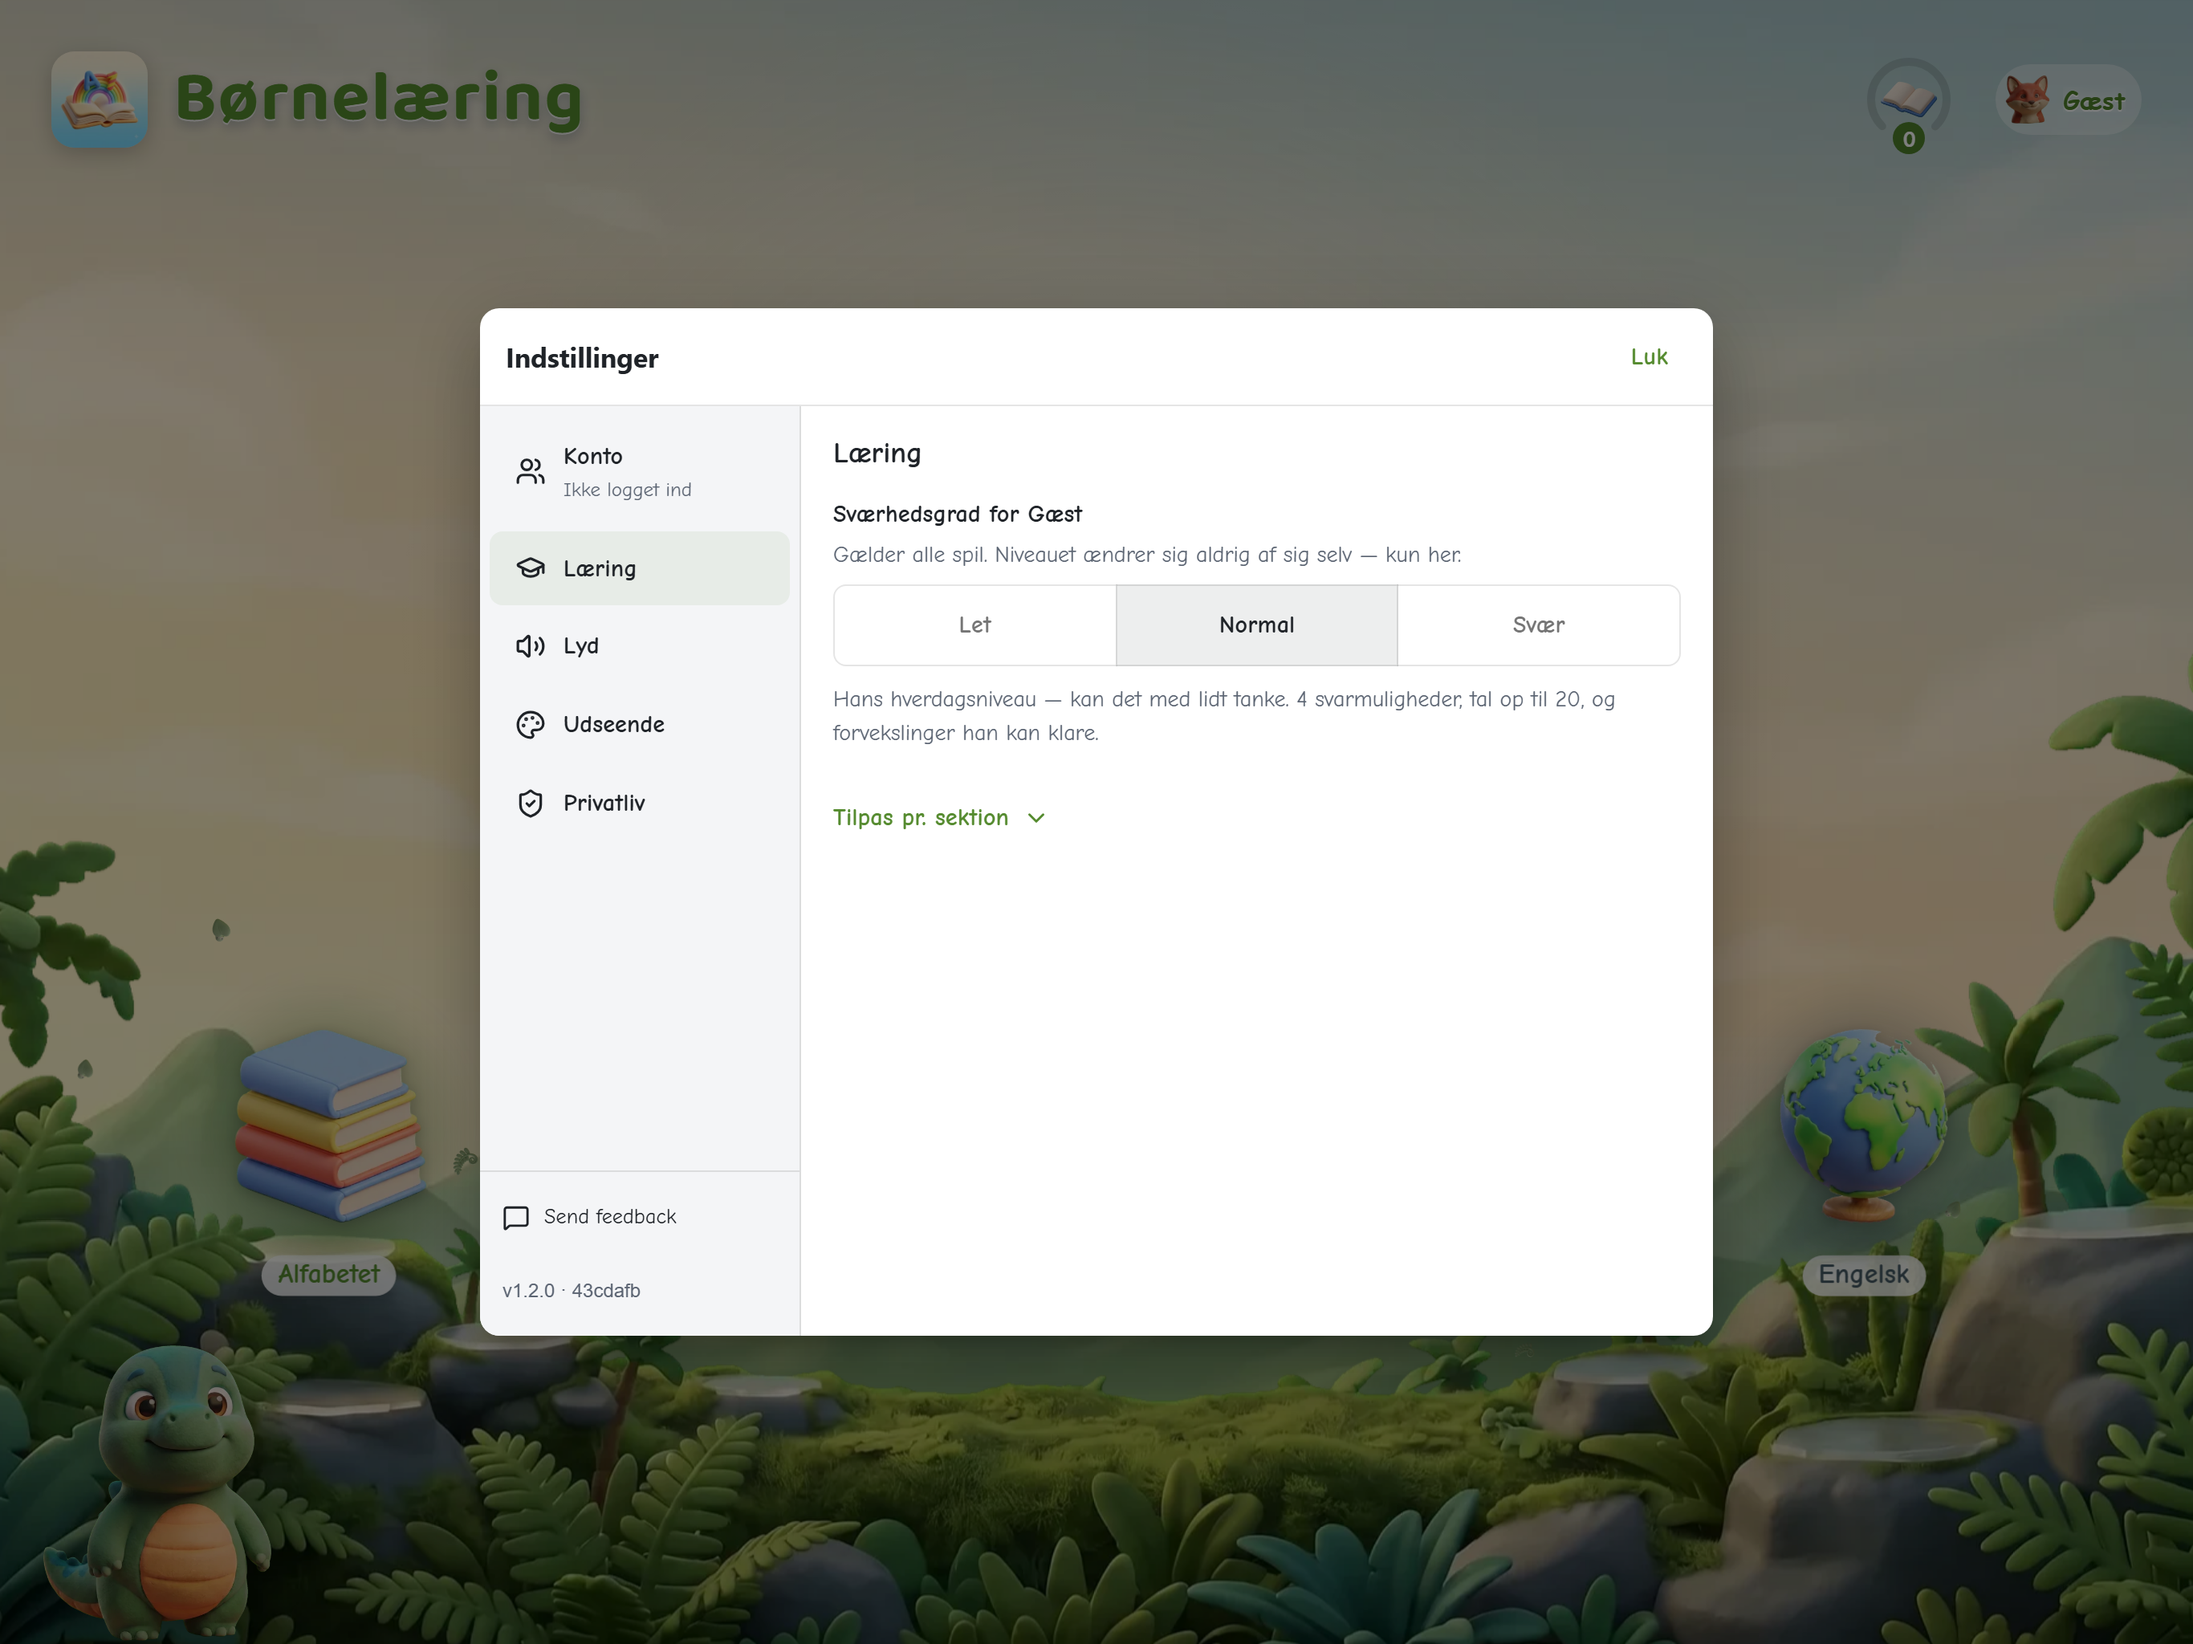
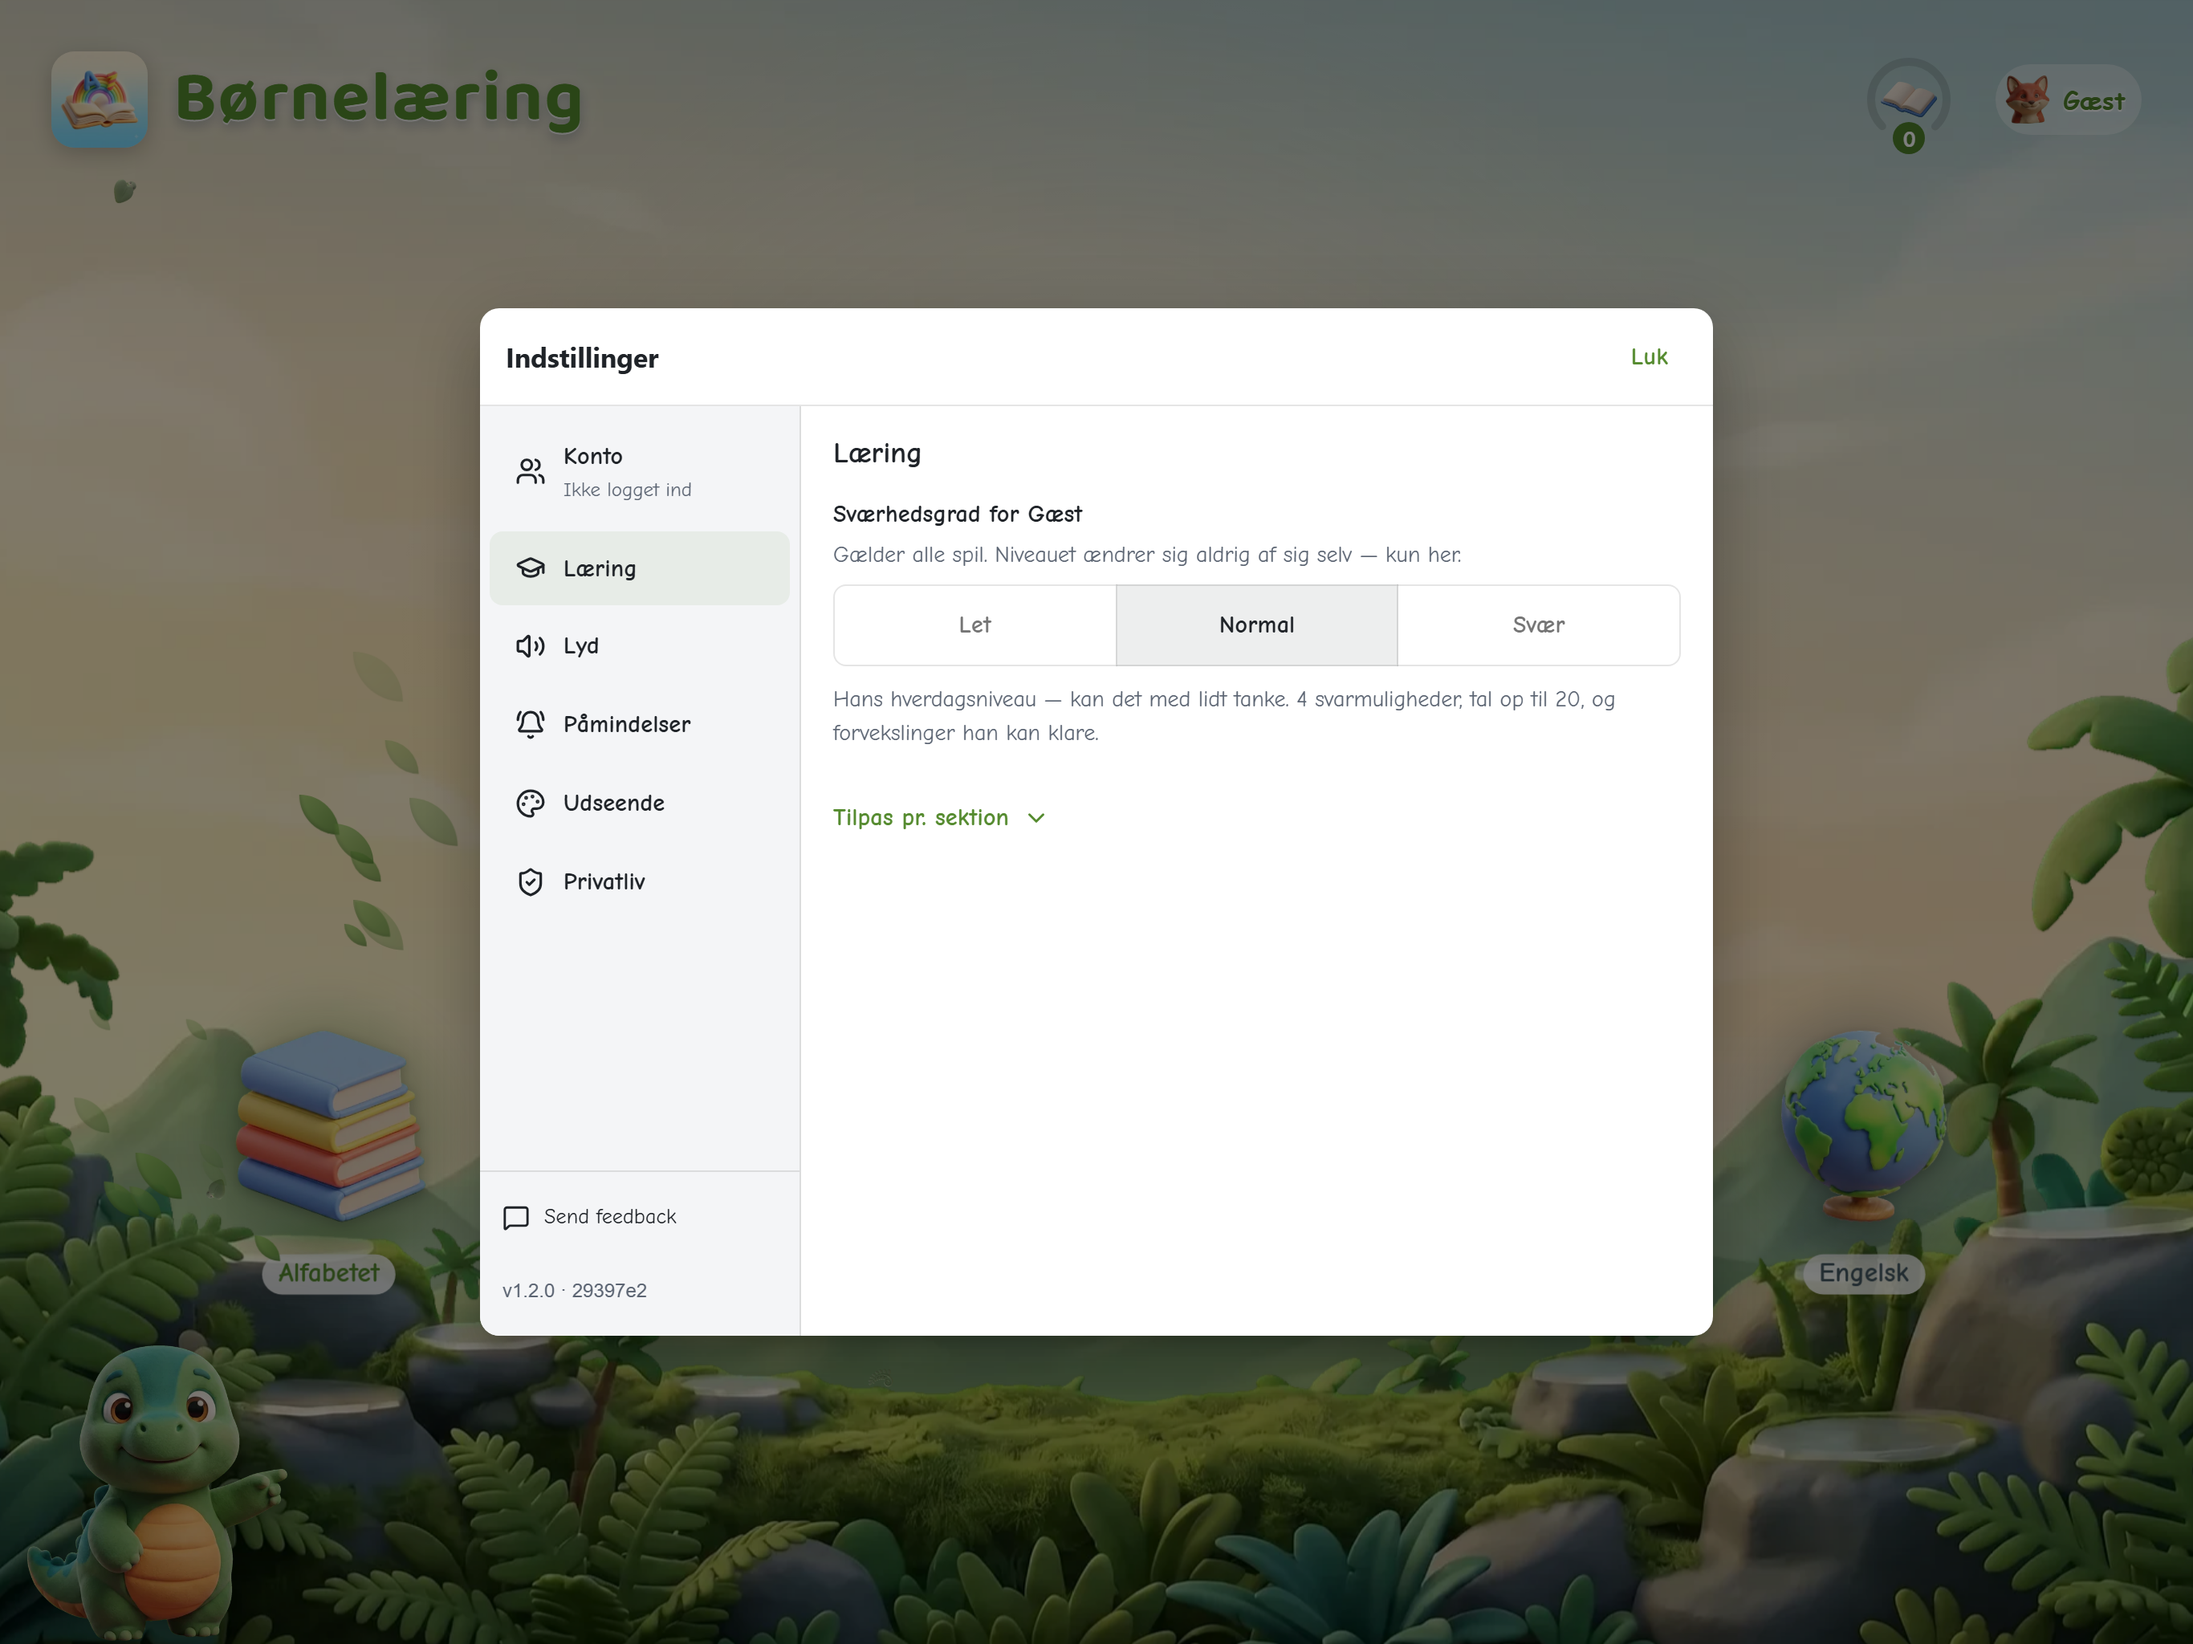
docs(app-store): 1.2 ships the weekly reminders — release note, review note, Indstillinger shots
The owner chose to ship Re-engagement PRD-01 (W0–W4) in 1.2, so the listing follows it:

- §1.4c gains the reminders line in "Nyheder", worded by the session that built it.
- §3.3: the App Review note said "the app requests no device permissions at all". From
  1.2 that is false — the app asks for notifications — so the clause is replaced with the
  local-notifications note. App Privacy is unchanged: nothing is sent, and notify:* rides
  the existing anonymous counter.
- §1.4c no longer implies the privacy POLICY is untouched; 73a06d5 added a reminders
  section to it.
- Both Indstillinger shots re-taken with `&fakenotify=granted`, because the Påmindelser
  row exists only in the shell and the store shots must show the app as shipped. The
  iPhone rail has six rows now and scrolls at 440px, so Privatliv sits below the fold;
  Chrome's desktop scrollbar is hidden in the capture (iOS overlays are invisible at rest).

diff --git a/docs/app-store/listing.md b/docs/app-store/listing.md
@@ -190,9 +190,15 @@ monetisation better than any feature bullet, and reviewers read descriptions.
 ### 1.4c "Nyheder" (What's New) — 1.2
 
 **The description (§1.4) does not change for 1.2.** Nothing in this release adds a game, removes one, or
-changes what the app collects — "20 spil" is still right, and the privacy paragraph is untouched. Only
-this field is new. Check it is not `null` on the 1.2 version record before submitting; it does not carry
-over from 1.1.
+changes what the app collects — "20 spil" is still right, and the description's privacy paragraph is
+untouched. **The privacy POLICY did change** (`73a06d5`: a reminders section in both languages, dated
+9 Oct 2026) — that is the page the policy URL serves, not listing copy, so nothing here needs editing for
+it; but don't read "untouched" as covering the policy. Only this field is new. Check it is not `null` on
+the 1.2 version record before submitting; it does not carry over from 1.1.
+
+**1.2 also asks for the app's FIRST device permission** — notifications, for the opt-in weekly reminders
+(Re-engagement PRD-01). That changes the App Review note (§3.3) and nothing in App Privacy: the reminders
+are local, nothing is sent, and the `notify:*` funnel rides the existing anonymous counter.
 
 Three choices worth recording, so they are not re-litigated:
 
@@ -216,6 +222,7 @@ Denne opdatering giver spillene mere variation — og en roligere lyd.
 • Bogstav Quiz viser flere forskellige billeder til hvert bogstav. Å er blevet en ål.
 • Læs Ordet og Stav Ordet har fået mange flere ord, og er blevet lettere på Let.
 • Nuancer og Hukommelse følger nu sværhedsgraden bedre.
+• Hvis I vil, kan appen nu sende en venlig påmindelse, når den ikke har været åbnet i en uge — højst tre i træk. Slå det til eller fra under Indstillinger → Påmindelser.
 • Musikken i Regnbue og Rummet er skiftet ud med noget roligere, og lyden, når en menu åbner, er fjernet.
 • Når man trækker en brik, følger den nu fingeren præcist.
 • "Tog" bliver nu udtalt som toget, ikke som "to".
@@ -557,8 +564,11 @@ node -e "…" # ageRatingDeclaration → kidsAgeBand   ← the authoritative che
   capabilities, medical/wellness, violent themes). Everything here answers to the mildest option; the app
   has no violence, no user-generated content, no chat, no ads, no gambling, no web browsing.
 - **App Review Information.** Contact details, plus **notes in English** stating: no account is required
-  (just tap and play), the adult area is behind a passcode, the passcode for review is `<supply one>`, the
-  app requests no device permissions at all, and it is Danish-only by design.
+  (just tap and play), the adult area is behind a passcode, the passcode for review is `<supply one>`, and
+  it is Danish-only by design. **Until 1.1 the note also said "the app requests no device permissions at
+  all" — FALSE from 1.2**, which asks for notifications. Replace that clause with the reminders note:
+  *"Optional weekly reminders are local notifications scheduled on the device. The adult is asked once on
+  first launch; they can be turned off under Indstillinger → Påmindelser. No server, no data sent."*
 
 ### 3.4 Two account details worth knowing before you enrol
 
